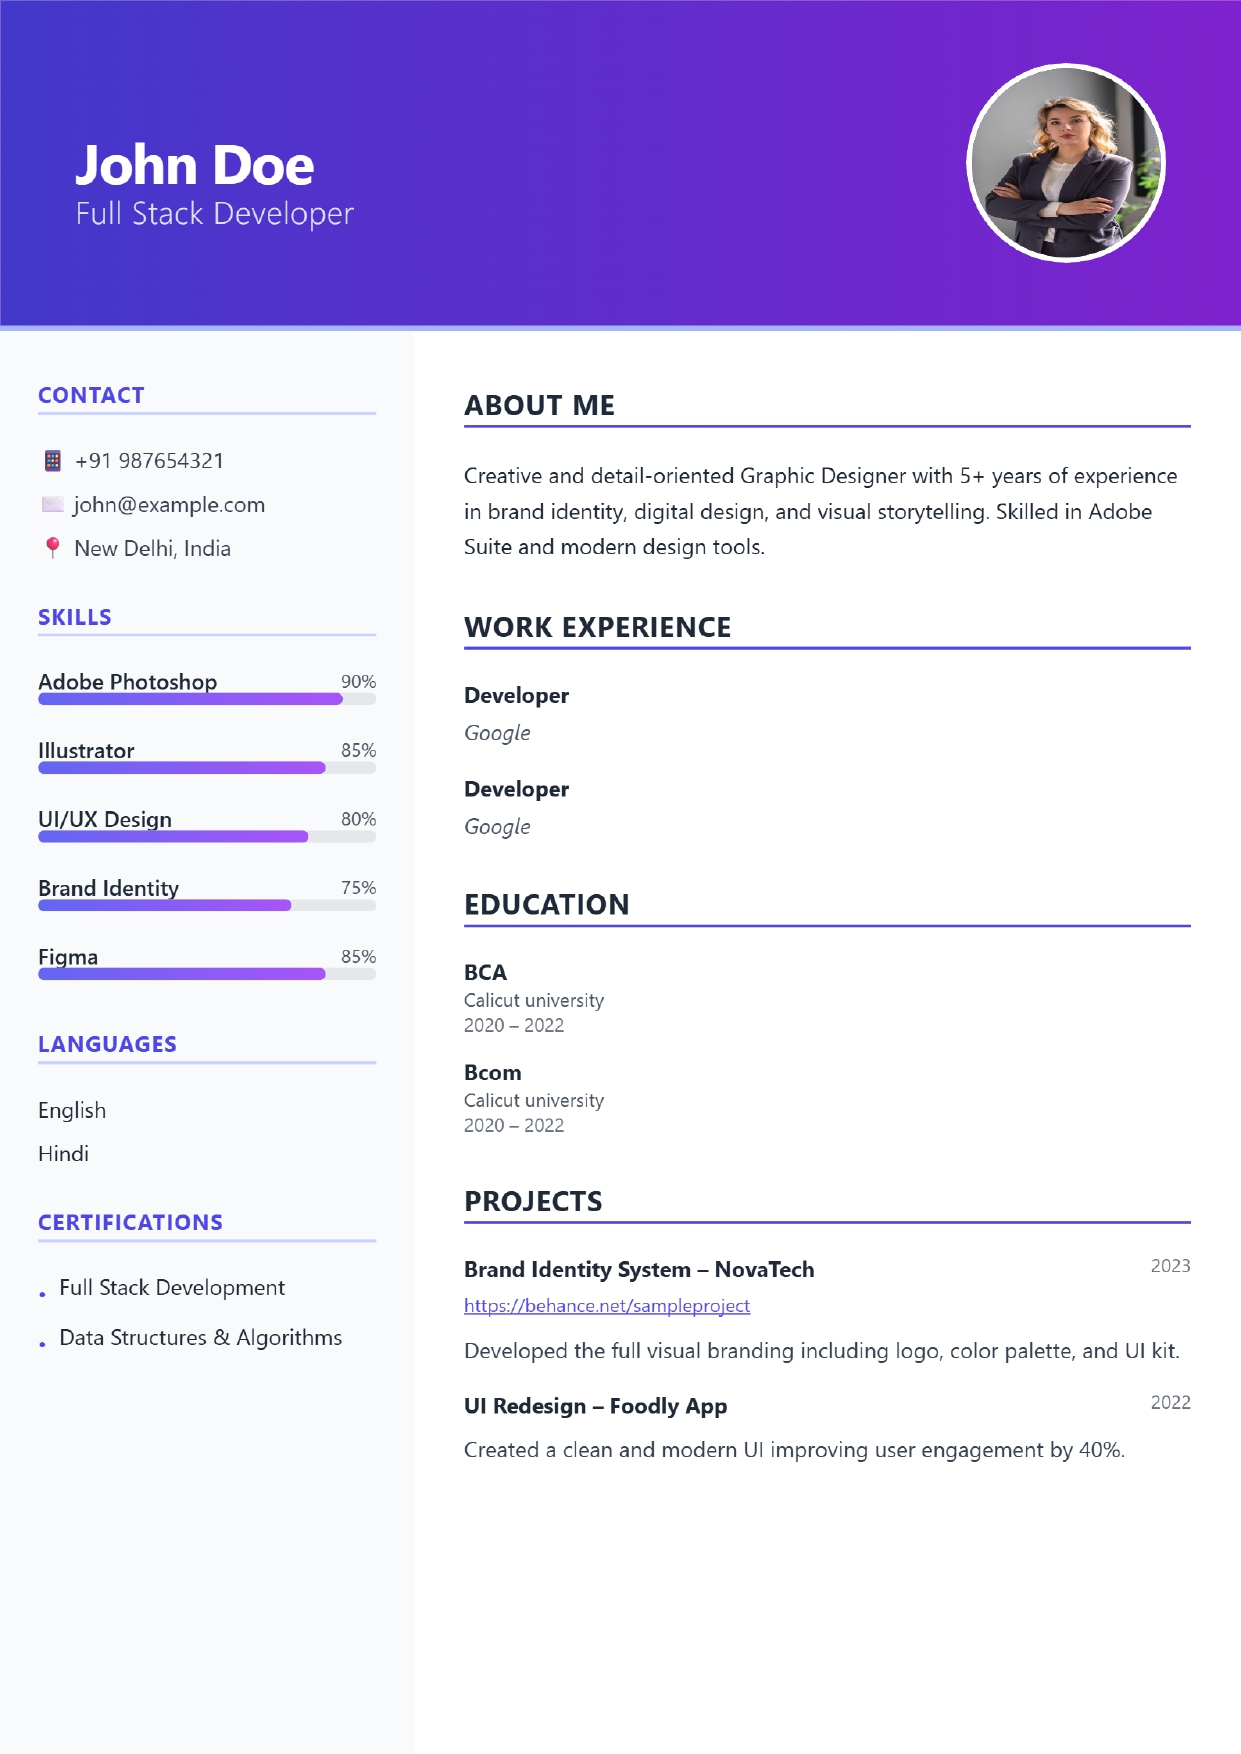
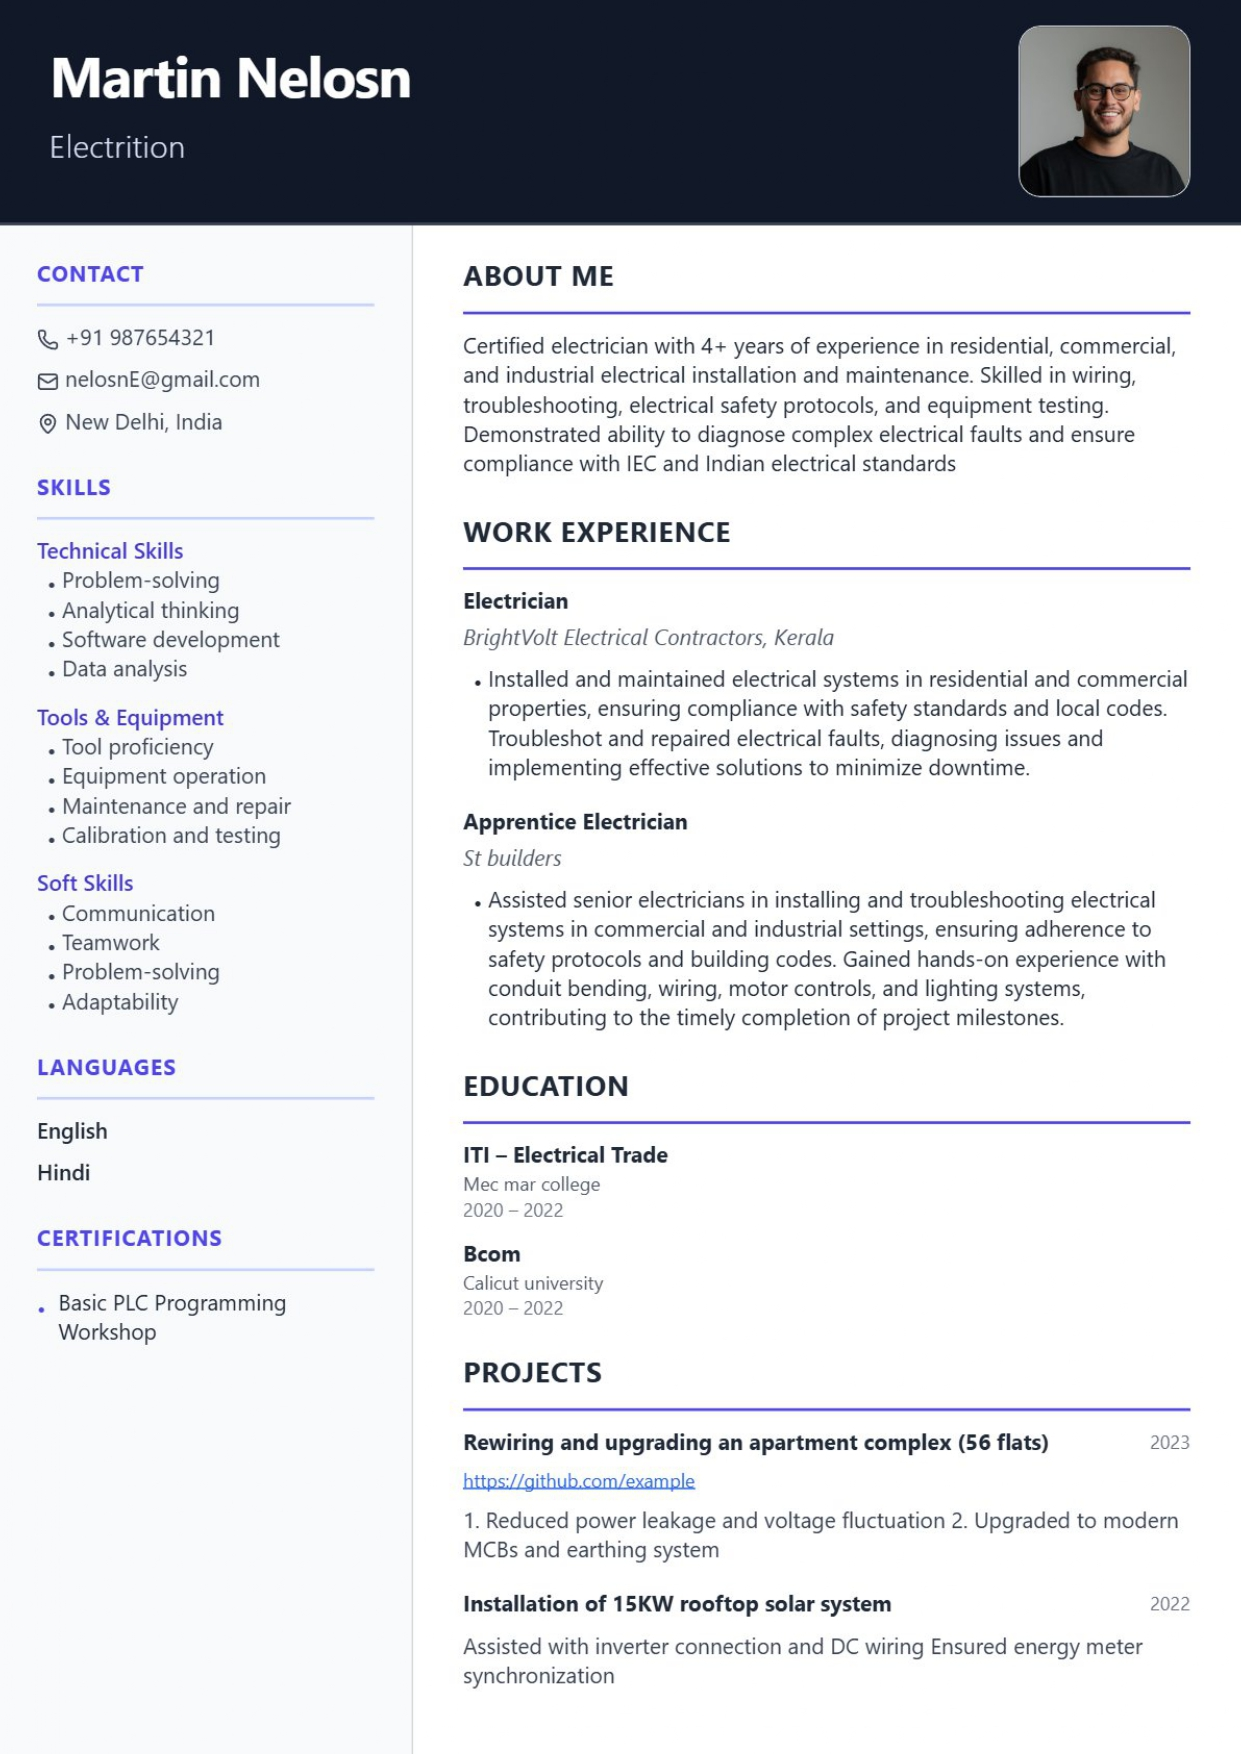
updates in temp 37,40

Changed region(s): [[0.0, 0.0, 1.0, 0.9852], [0.2756, 0.5234, 0.3062, 0.5542], [0.2756, 0.4618, 0.3062, 0.4926]]

diff --git a/components/templates/Template40.jsx b/components/templates/Template40.jsx
@@ -121,6 +121,7 @@ export default function Template40({ data, onClickSection }) {
   const socialLinks = toArray(finalData.socialLinks);
   const references = toArray(finalData.references);
   const awards = toArray(finalData.awards);
+  const Certificates = toArray(finalData.certificates);
 
   const getSummaryText = () => {
     if (!finalData.summary) return "";
@@ -138,7 +139,7 @@ export default function Template40({ data, onClickSection }) {
       className="w-[794px] min-h-[1123px] mx-auto bg-white shadow-2xl font-sans"
     >
       {/* HEADER */}
-      <div className="bg-gradient-to-r from-indigo-700 to-purple-700 text-white px-12 py-10 border-b-4 border-indigo-300 shadow-md flex justify-between items-center">
+     <div className="bg-gray-900 text-white px-8 py-4 border-b border-gray-700 flex justify-between items-center">
         <div className="flex-1">
           <h1
             className="text-4xl font-bold tracking-tight cursor-pointer mb-1"
@@ -156,30 +157,37 @@ export default function Template40({ data, onClickSection }) {
         </div>
 
         {/* Profile Image */}
-        <div onClick={() => onClickSection("image")}>
-          <div
-            className={`w-32 h-32 overflow-hidden border-4 border-white shadow-2xl ring-4 ring-purple-300/60 ring-offset-2 ring-offset-indigo-600 cursor-pointer ${
-              finalData.imageShape === "circle"
-                ? "rounded-full"
-                : finalData.imageShape === "rounded"
-                ? "rounded-2xl"
-                : "rounded-lg"
-            }`}
-          >
-        <img
-  src={finalData.profileImage || "/templateprofile/template22profile.jpg"}
-  className="w-full h-full object-cover"
-/>
+       <div 
+  onClick={() => onClickSection("image")}
+  className="flex items-center justify-center"
+>
+  <div
+    className={`overflow-hidden border border-gray-300 cursor-pointer`}
+    style={{
+      width: finalData.imageSize || "110px",
+      height: finalData.imageSize || "110px",
+      borderRadius:
+        finalData.imageShape === "circle"
+          ? "50%"
+          : finalData.imageShape === "rounded"
+          ? "14px"
+          : "0",
+      objectFit: "cover",
+    }}
+  >
+    <img
+      src={finalData.profileImage}
+      className="object-cover w-full h-full"
+    />
+  </div>
+</div>
 
-
-          </div>
-        </div>
       </div>
 
       {/* FLEX LAYOUT */}
       <div className="flex">
         {/* LEFT SIDEBAR */}
-        <div className="cv-sidebar w-1/3 bg-gray-50 px-6 py-6">
+       <div className="cv-sidebar w-1/3 bg-gray-50 px-6 py-6 min-h-[1123px] border-r border-gray-300">
           {/* CONTACT */}
           <section
             className="mb-6 cursor-pointer cv-item"
@@ -262,7 +270,7 @@ export default function Template40({ data, onClickSection }) {
 
                     <div className="w-full bg-gray-200 h-2 rounded-full">
                       <div
-                        className="h-2 rounded-full bg-gradient-to-r from-indigo-500 to-purple-500"
+                        className="h-2 rounded-full bg-gray-700"
                         style={{ width: `${skillObj.proficiency || 80}%` }}
                       ></div>
                     </div>
@@ -296,23 +304,30 @@ export default function Template40({ data, onClickSection }) {
 </section>
 
           {/* CERTIFICATIONS */}
-          <section
-            className="mb-6 cursor-pointer"
-            onClick={() => onClickSection("certificates")}
-          >
-            <h3 className="text-sm font-bold uppercase tracking-wider text-indigo-600 mb-3 pb-2 border-b-2 border-indigo-200">
-              Certifications
-            </h3>
+         {visible.certificates !== false && certificates.length > 0 && (
+  <section
+    className="mb-6 cursor-pointer"
+    onClick={() => onClickSection("certificates")}
+  >
+    <h3 className="text-sm font-bold uppercase tracking-wider text-indigo-600 mb-3 pb-2 border-b-2 border-indigo-200">
+      Certifications
+    </h3>
 
-            <ul className="space-y-2 text-sm">
-              {certificates.map((c, i) => (
-                <li key={i} className="cv-item flex items-start gap-2">
-                  <span className="text-indigo-600 mt-1">•</span>
-                  <span>{safeText(c)}</span>
-                </li>
-              ))}
-            </ul>
-          </section>
+    <ul className="space-y-2 text-sm">
+      {certificates.map((c, i) => (
+        <li key={i} className="cv-item flex items-start gap-2">
+          <span className="text-indigo-600 mt-1">•</span>
+         <span>
+  {c.name || ""}
+  {c.issuer ? ` — ${c.issuer}` : ""}
+  {c.year ? ` (${c.year})` : ""}
+</span>
+        </li>
+      ))}
+    </ul>
+  </section>
+)}
+
     
 
     {/* AWARDS */}

diff --git a/components/templates/Template37.jsx b/components/templates/Template37.jsx
@@ -142,7 +142,7 @@ export default function Template37({ data, onClickSection }) {
             onClick={() => onClickSection("image")}
           >
             <img
-              src={profileImage || "/templateprofile/template01profile.jpg"}
+              src={profileImage || "/templateprofile/template37profile.jpg"}
               className="w-full h-full object-cover"
             />
           </div>
